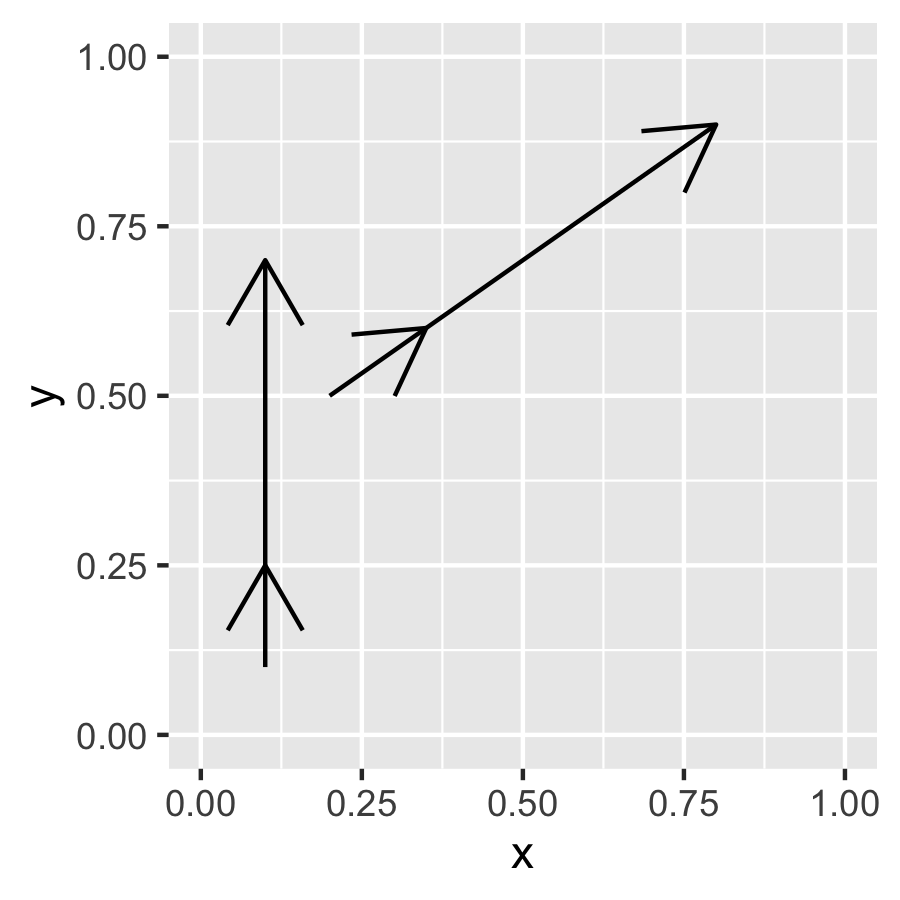
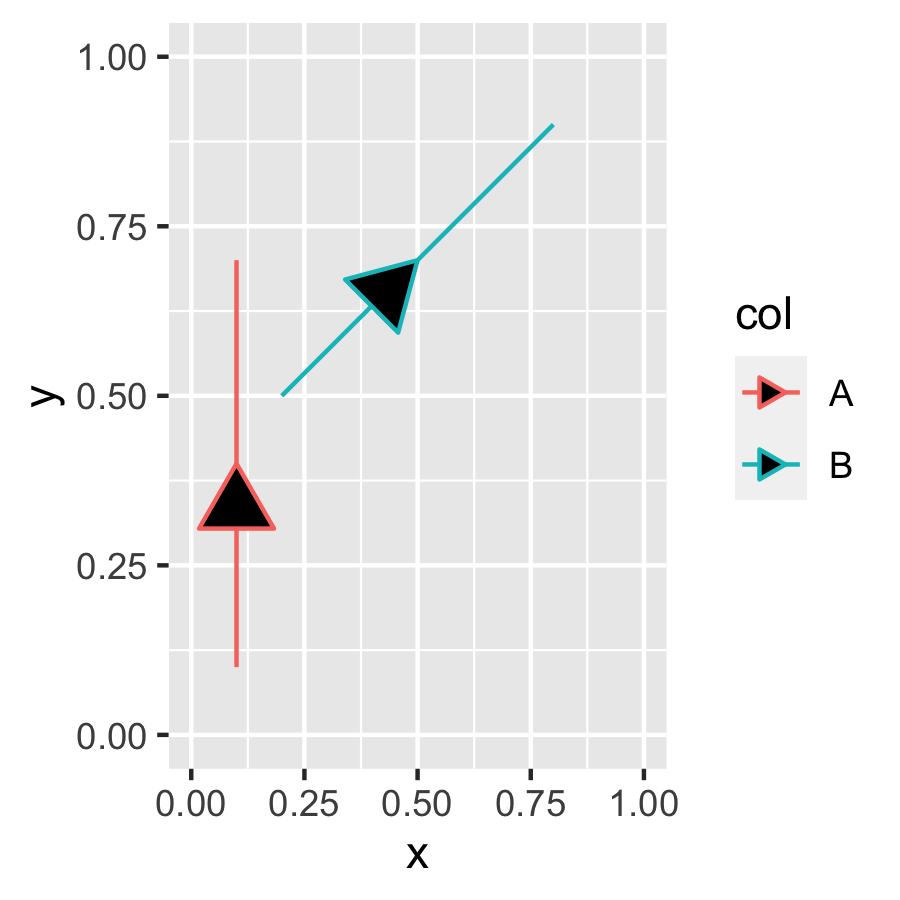
Update documentation for 0.4.0

diff --git a/README.md b/README.md
@@ -69,7 +69,7 @@ ggplot(tbl) +
 
 <img src="man/figures/geom_arrowsegment_example4.png" width="400"/>
 
-Other aesthetics also work as you would hope:
+Other aesthetics also work as you would hope. There is a subtle difference in the legend as displayed by `geom_segment` and `geom_arrowsegment`, however:
 
 ```
 tbl <- tbl %>% mutate(col = c("A", "B"))
@@ -82,6 +82,42 @@ ggplot(tbl) +
 
 <img src="man/figures/geom_arrowsegment_example5.png" width="400"/>
 
+Another key way that `geom_arrowsegment` differs from `geom_segment` is that it has a working `fill` aesthetic. This is only visible if the arrowhead is closed. Note that
+it must be specified as `fill` even if you want it to simply match the `colour` aesthetic.
+
+```
+ggplot(tbl) + 
+  geom_arrowsegment(aes(x = x, xend = xend, y = y, yend = yend, fill = col), arrow_positions = 0.5, 
+                    arrows = arrow(type = "closed"))  + 
+  xlim(c(0,1)) +
+  ylim(c(0,1))
+```
+
+<img src="man/figures/geom_arrowsegment_example6.png" width="400"/>
+
+```
+ggplot(tbl) + 
+  geom_arrowsegment(aes(x = x, xend = xend, y = y, yend = yend, col = col), arrow_positions = 0.5, 
+                    arrows = arrow(type = "closed"))  + 
+  xlim(c(0,1)) +
+  ylim(c(0,1))
+```
+
+<img src="man/figures/geom_arrowsegment_example7.png" width="400"/>
+
+
+```
+ggplot(tbl) + 
+  geom_arrowsegment(aes(x = x, xend = xend, y = y, yend = yend, fill = col, col = col), arrow_positions = 0.5, 
+                    arrows = arrow(type = "closed"))  + 
+  xlim(c(0,1)) +
+  ylim(c(0,1))
+```
+
+<img src="man/figures/geom_arrowsegment_example8.png" width="400"/>
+
+
+
 You can also define multiple arrowheads by making `arrow_positions` a vector of length greater than 1. All values are expected to fall between 0 and 1, and not be exactly 0:
 
 ```
@@ -91,7 +127,7 @@ ggplot(tbl) +
   ylim(c(0,1))
 ```
 
-<img src="man/figures/geom_arrowsegment_example6.png" width="400"/>
+<img src="man/figures/geom_arrowsegment_example9.png" width="400"/>
 
 If one value is 1, then the final arrowhead appears at the end:
 
@@ -102,7 +138,7 @@ ggplot(tbl) +
   ylim(c(0,1))
 ```
 
-<img src="man/figures/geom_arrowsegment_example7.png" width="400"/>
+<img src="man/figures/geom_arrowsegment_example10.png" width="400"/>
 
 The look of each arrow can also be controlled separately by making `arrows` a list:
 
@@ -114,9 +150,9 @@ ggplot(tbl) +
   ylim(c(0,1))
 ```
 
-<img src="man/figures/geom_arrowsegment_example8.png" width="400"/>
+<img src="man/figures/geom_arrowsegment_example11.png" width="400"/>
 
-The `arrow_fills` option also mimics `arrow.fill` of `geom_segment()` but can be a vector.
+The `arrow_fills` option also mimics `arrow.fill` of `geom_segment()` but can be a vector. As with a specification of `fill` outside the aesthetics, this takes precedence over a `fill` aesthetic.
 
 ```
 ggplot(tbl) + 
@@ -128,7 +164,7 @@ ggplot(tbl) +
   ylim(c(0,1))
 ```
 
-<img src="man/figures/geom_arrowsegment_example9.png" width="400"/>
+<img src="man/figures/geom_arrowsegment_example12.png" width="400"/>
 
 Finally, the geom can be used as an annotation:
 
@@ -238,4 +274,6 @@ ggplot(pt.tbl)+
 
 ## Limitations
 
-Current these replace only `geom_segment()` and work only for linear coordinate systems. I would like to extend to `geom_curve()` but the intricacies of `grid::curveGrob()` make that much more complicated. I am unsure if allowing these for the `geom_line()` and `geom_path()` parameterisations would be especially useful, but I'm happy to be told they would be.
+Current these replace only `geom_segment()` and work only for linear coordinate systems. I would like to extend to `geom_curve()` but the intricacies of `grid::curveGrob()` make that much more complicated. Also the fact that the specified arrow position corresponds to the arrowhead tip can make lines look a little lopsided; it would be much better if the specified point was the midpoint of the arrowhead instead, but this is very difficult using `grid::arrow()` because of the units specification. To do this I would probably need to draw my own arrowheads. Maybe one day...
+
+Next on my to-do list is extending to the `geom_line()` and `geom_path()` parameterisations.
